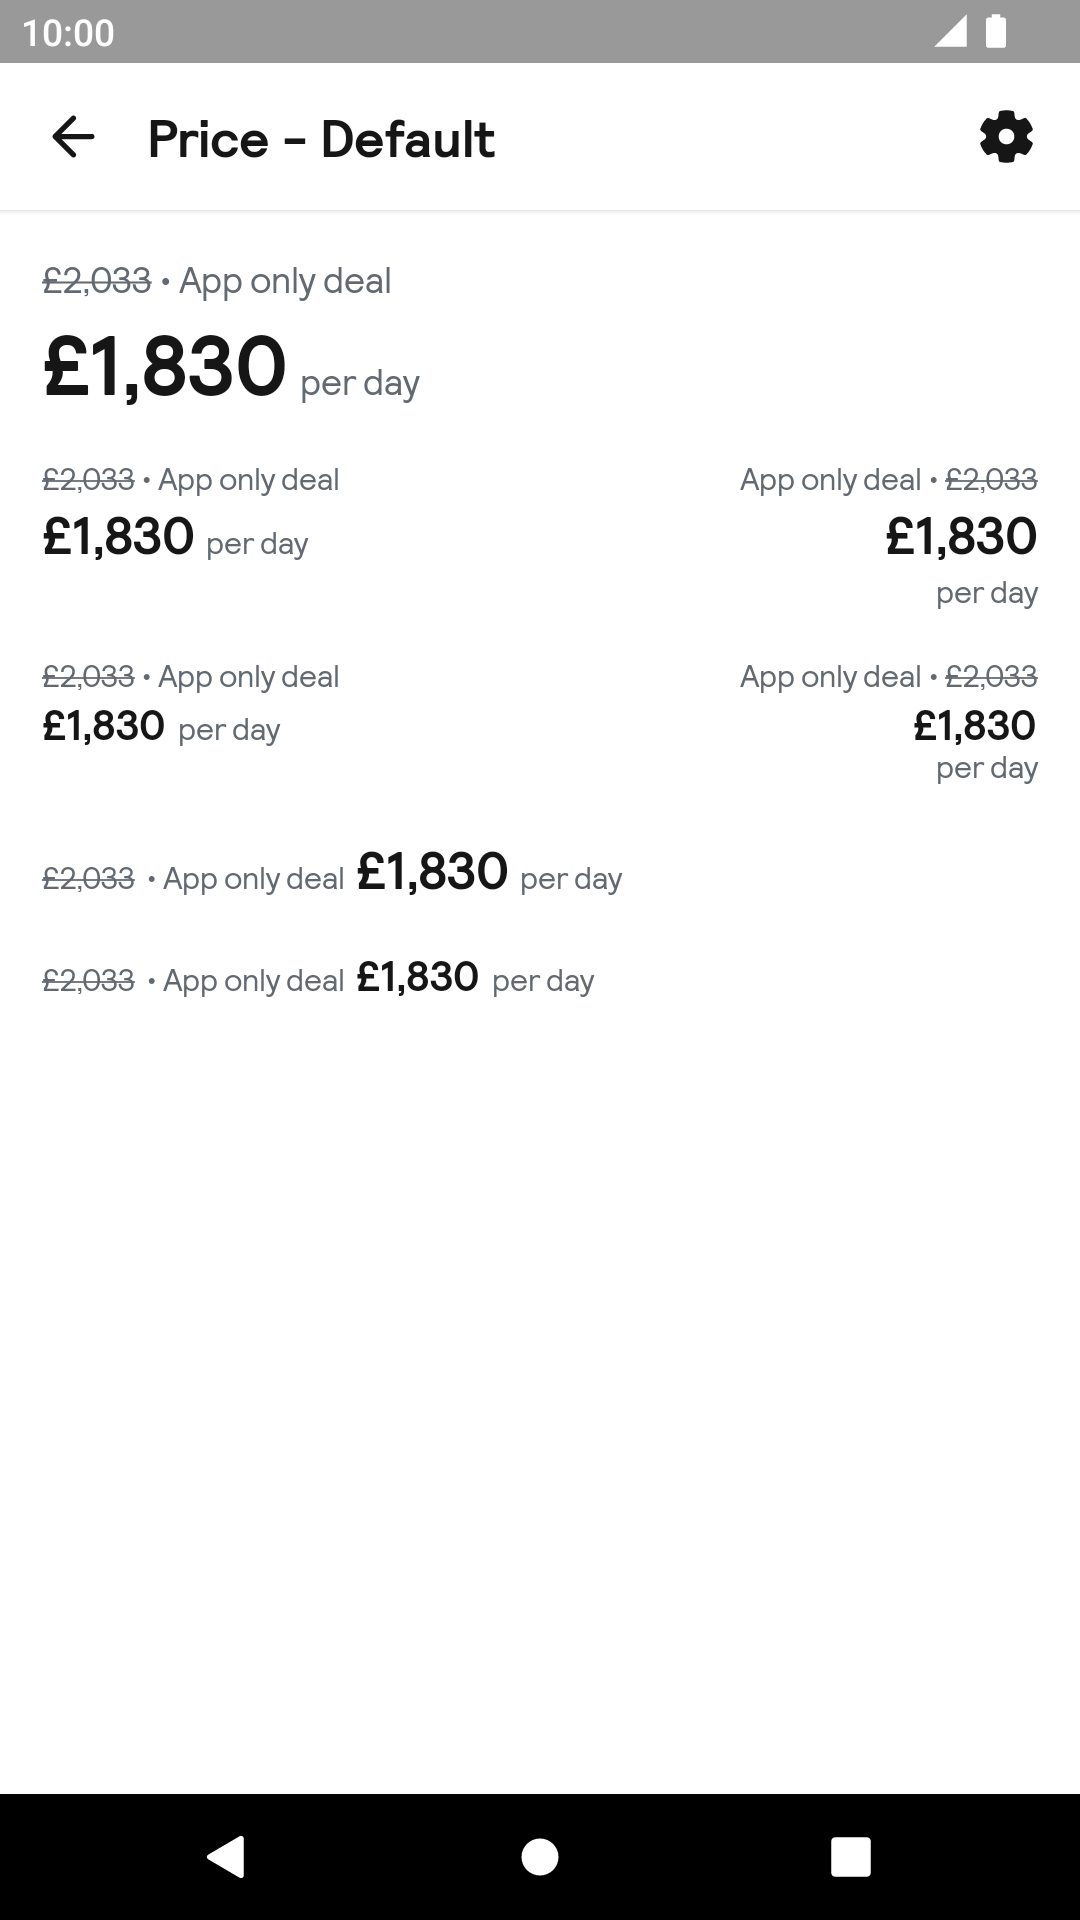
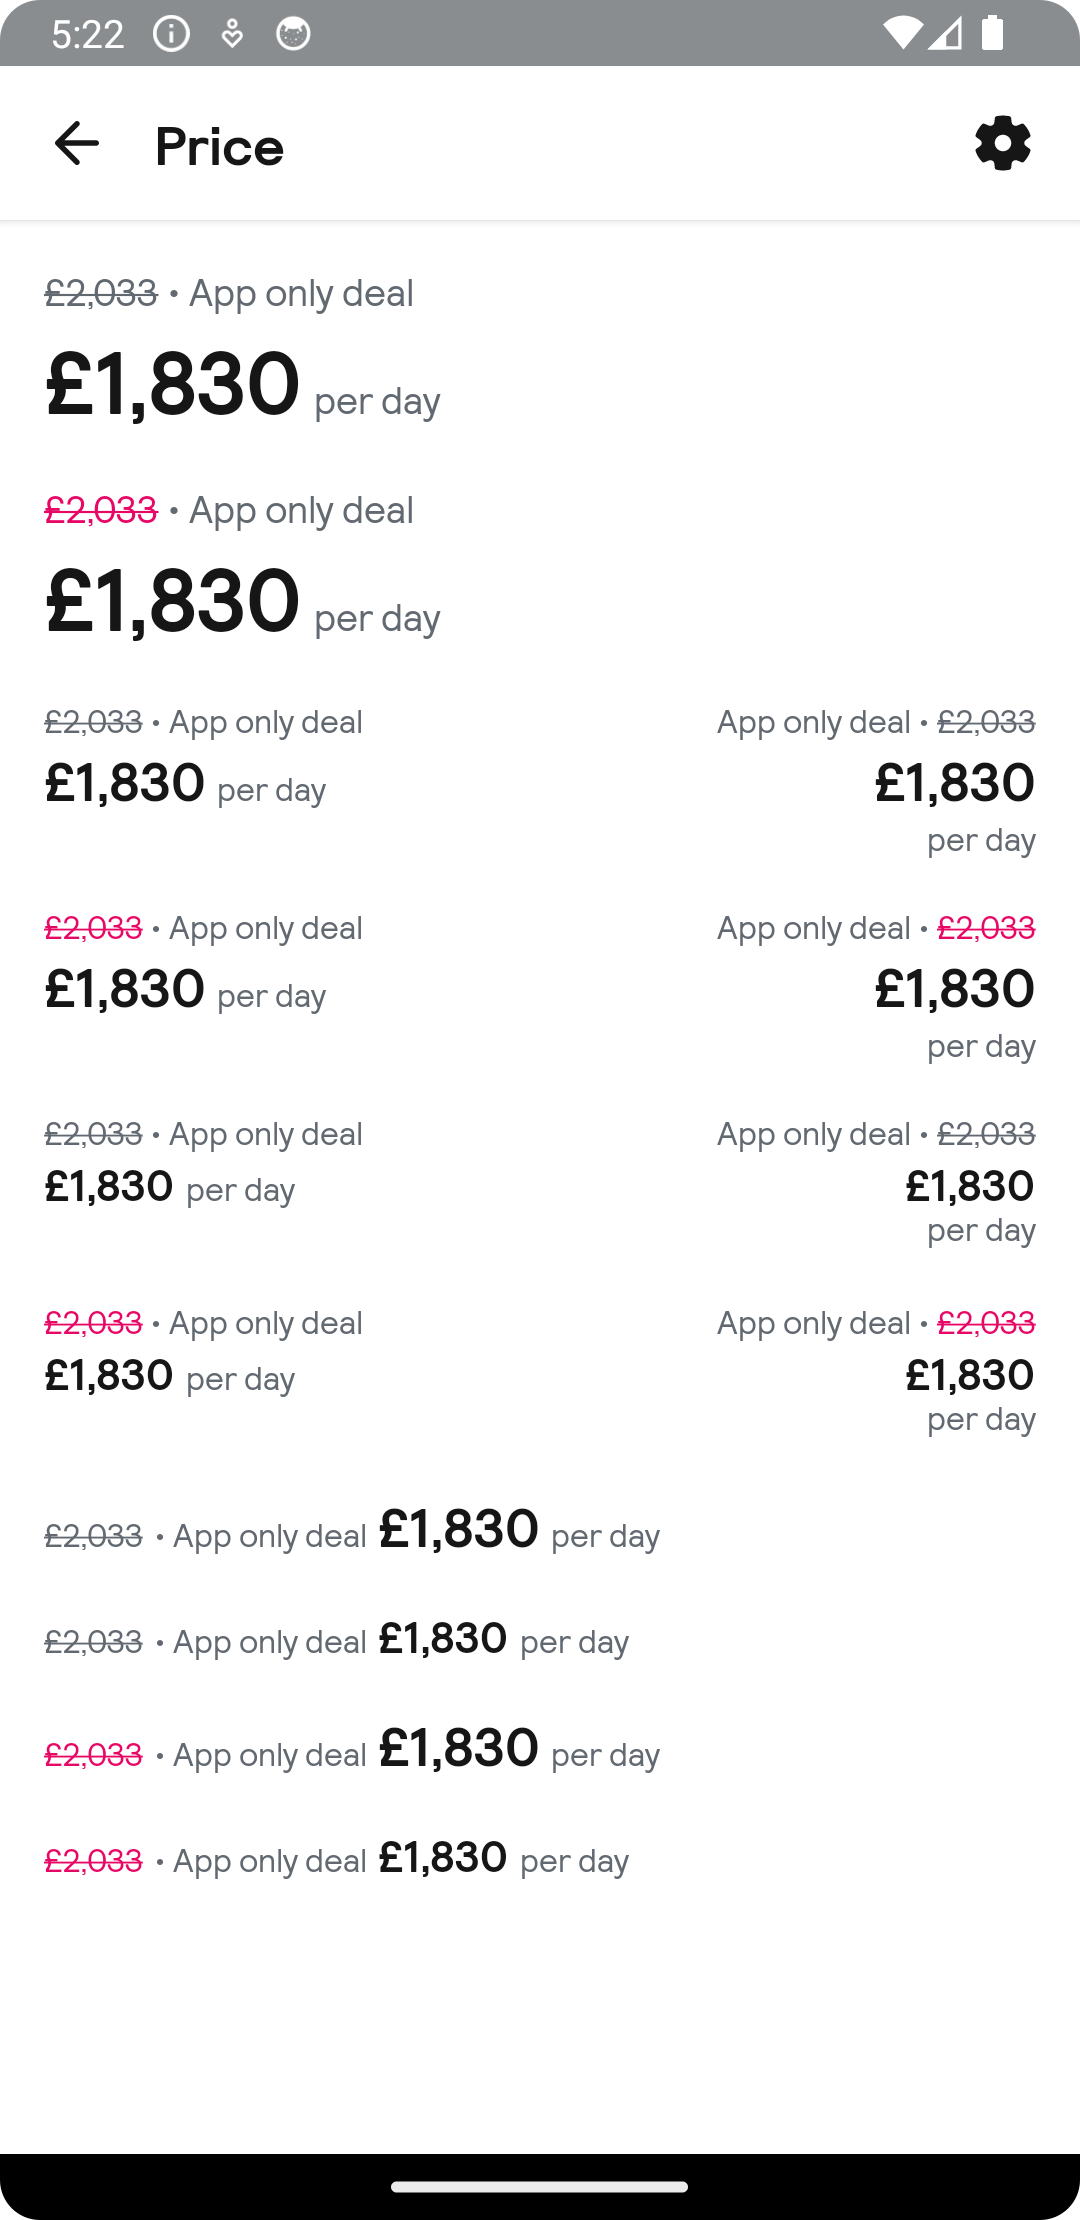
BpkPrice component support style modification

diff --git a/app/src/main/java/net/skyscanner/backpack/demo/compose/PriceStory.kt b/app/src/main/java/net/skyscanner/backpack/demo/compose/PriceStory.kt
@@ -26,10 +26,12 @@ import androidx.compose.foundation.layout.fillMaxWidth
 import androidx.compose.foundation.layout.padding
 import androidx.compose.runtime.Composable
 import androidx.compose.ui.Modifier
+import androidx.compose.ui.graphics.Color
 import androidx.compose.ui.res.stringResource
 import net.skyscanner.backpack.compose.price.BpkPrice
 import net.skyscanner.backpack.compose.price.BpkPriceAlign
 import net.skyscanner.backpack.compose.price.BpkPriceSize
+import net.skyscanner.backpack.compose.theme.BpkTheme
 import net.skyscanner.backpack.compose.tokens.BpkSpacing
 import net.skyscanner.backpack.demo.R
 import net.skyscanner.backpack.demo.components.PriceComponent
@@ -48,6 +50,12 @@ fun PriceStory(modifier: Modifier = Modifier) {
         PriceExample(
             size = BpkPriceSize.Large,
             align = BpkPriceAlign.Start,
+            previousPriceColor = null,
+        )
+        PriceExample(
+            size = BpkPriceSize.Large,
+            align = BpkPriceAlign.Start,
+            previousPriceColor = BpkTheme.colors.statusDangerSpot,
         )
         Row(
             modifier = Modifier.fillMaxWidth(),
@@ -56,10 +64,27 @@ fun PriceStory(modifier: Modifier = Modifier) {
             PriceExample(
                 size = BpkPriceSize.Small,
                 align = BpkPriceAlign.Start,
+                previousPriceColor = null,
             )
             PriceExample(
                 size = BpkPriceSize.Small,
                 align = BpkPriceAlign.End,
+                previousPriceColor = null,
+            )
+        }
+        Row(
+            modifier = Modifier.fillMaxWidth(),
+            horizontalArrangement = Arrangement.SpaceBetween,
+        ) {
+            PriceExample(
+                size = BpkPriceSize.Small,
+                align = BpkPriceAlign.Start,
+                previousPriceColor = BpkTheme.colors.statusDangerSpot,
+            )
+            PriceExample(
+                size = BpkPriceSize.Small,
+                align = BpkPriceAlign.End,
+                previousPriceColor = BpkTheme.colors.statusDangerSpot,
             )
         }
         Row(
@@ -69,25 +94,54 @@ fun PriceStory(modifier: Modifier = Modifier) {
             PriceExample(
                 size = BpkPriceSize.ExtraSmall,
                 align = BpkPriceAlign.Start,
+                previousPriceColor = null,
             )
             PriceExample(
                 size = BpkPriceSize.ExtraSmall,
                 align = BpkPriceAlign.End,
+                previousPriceColor = null,
+            )
+        }
+        Row(
+            modifier = Modifier.fillMaxWidth(),
+            horizontalArrangement = Arrangement.SpaceBetween,
+        ) {
+            PriceExample(
+                size = BpkPriceSize.ExtraSmall,
+                align = BpkPriceAlign.Start,
+                previousPriceColor = BpkTheme.colors.statusDangerSpot,
+            )
+            PriceExample(
+                size = BpkPriceSize.ExtraSmall,
+                align = BpkPriceAlign.End,
+                previousPriceColor = BpkTheme.colors.statusDangerSpot,
             )
         }
         PriceExample(
             size = BpkPriceSize.Small,
             align = BpkPriceAlign.Row,
+            previousPriceColor = null,
         )
         PriceExample(
             size = BpkPriceSize.ExtraSmall,
             align = BpkPriceAlign.Row,
+            previousPriceColor = null,
+        )
+        PriceExample(
+            size = BpkPriceSize.Small,
+            align = BpkPriceAlign.Row,
+            previousPriceColor = BpkTheme.colors.statusDangerSpot,
+        )
+        PriceExample(
+            size = BpkPriceSize.ExtraSmall,
+            align = BpkPriceAlign.Row,
+            previousPriceColor = BpkTheme.colors.statusDangerSpot,
         )
     }
 }
 
 @Composable
-private fun PriceExample(size: BpkPriceSize, align: BpkPriceAlign) {
+private fun PriceExample(size: BpkPriceSize, align: BpkPriceAlign, previousPriceColor: Color?) {
     BpkPrice(
         price = stringResource(id = R.string.price_price),
         previousPrice = stringResource(id = R.string.price_line_through_text),
@@ -95,5 +149,6 @@ private fun PriceExample(size: BpkPriceSize, align: BpkPriceAlign) {
         trailingText = stringResource(id = R.string.price_trailing_text),
         size = size,
         align = align,
+        previousPriceColor = previousPriceColor ?: BpkTheme.colors.textSecondary,
     )
 }

diff --git a/backpack-compose/src/main/kotlin/net/skyscanner/backpack/compose/price/BpkPrice.kt b/backpack-compose/src/main/kotlin/net/skyscanner/backpack/compose/price/BpkPrice.kt
@@ -20,9 +20,11 @@ package net.skyscanner.backpack.compose.price
 
 import androidx.compose.runtime.Composable
 import androidx.compose.ui.Modifier
+import androidx.compose.ui.graphics.Color
 import net.skyscanner.backpack.compose.price.internal.BpkPriceAlignEnd
 import net.skyscanner.backpack.compose.price.internal.BpkPriceAlignStart
 import net.skyscanner.backpack.compose.price.internal.BpkPriceRow
+import net.skyscanner.backpack.compose.theme.BpkTheme
 
 enum class BpkPriceAlign {
     Start,
@@ -43,6 +45,7 @@ fun BpkPrice(
     leadingText: String? = null,
     previousPrice: String? = null,
     trailingText: String? = null,
+    previousPriceColor: Color? = BpkTheme.colors.textSecondary,
     align: BpkPriceAlign = BpkPriceAlign.Start,
     size: BpkPriceSize = BpkPriceSize.Small,
 ) {
@@ -55,6 +58,7 @@ fun BpkPrice(
                 previousPrice = previousPrice,
                 trailingText = trailingText,
                 size = size,
+                previousPriceColor = previousPriceColor ?: BpkTheme.colors.textSecondary,
             )
         }
 
@@ -66,6 +70,7 @@ fun BpkPrice(
                 previousPrice = previousPrice,
                 trailingText = trailingText,
                 size = size,
+                previousPriceColor = previousPriceColor ?: BpkTheme.colors.textSecondary,
             )
         }
 
@@ -77,6 +82,7 @@ fun BpkPrice(
                 previousPrice = previousPrice,
                 trailingText = trailingText,
                 size = size,
+                previousPriceColor = previousPriceColor ?: BpkTheme.colors.textSecondary,
             )
         }
     }

diff --git a/app/src/test/java/net/skyscanner/backpack/compose/price/BpkPriceTest.kt b/app/src/test/java/net/skyscanner/backpack/compose/price/BpkPriceTest.kt
@@ -20,6 +20,7 @@ package net.skyscanner.backpack.compose.price
 
 import androidx.compose.ui.res.stringResource
 import net.skyscanner.backpack.compose.BpkSnapshotTest
+import net.skyscanner.backpack.compose.theme.BpkTheme
 import net.skyscanner.backpack.demo.R
 import org.junit.Test
 import org.junit.runner.RunWith
@@ -77,6 +78,21 @@ class BpkPriceTest(flavor: Flavor) : BpkSnapshotTest(listOf(flavor.size, flavor.
                 leadingText = stringResource(id = R.string.price_leading_text),
                 size = size,
                 align = align,
+            )
+        }
+    }
+
+    @Test
+    fun pricePreviousPriceColor() {
+        snap {
+            BpkPrice(
+                price = stringResource(id = R.string.price_price),
+                trailingText = stringResource(id = R.string.price_trailing_text),
+                previousPrice = stringResource(id = R.string.price_line_through_text),
+                leadingText = stringResource(id = R.string.price_leading_text),
+                size = size,
+                align = align,
+                previousPriceColor = BpkTheme.colors.statusDangerSpot,
             )
         }
     }

diff --git a/backpack-compose/src/main/kotlin/net/skyscanner/backpack/compose/price/internal/BpkPriceAlignStart.kt b/backpack-compose/src/main/kotlin/net/skyscanner/backpack/compose/price/internal/BpkPriceAlignStart.kt
@@ -25,6 +25,7 @@ import androidx.compose.foundation.layout.padding
 import androidx.compose.runtime.Composable
 import androidx.compose.ui.Alignment
 import androidx.compose.ui.Modifier
+import androidx.compose.ui.graphics.Color
 import androidx.compose.ui.text.style.TextDecoration
 import net.skyscanner.backpack.compose.price.BpkPriceSize
 import net.skyscanner.backpack.compose.text.BpkText
@@ -38,6 +39,7 @@ internal fun BpkPriceAlignStart(
     leadingText: String? = null,
     previousPrice: String? = null,
     trailingText: String? = null,
+    previousPriceColor: Color = BpkTheme.colors.textSecondary,
     size: BpkPriceSize = BpkPriceSize.Small,
 ) {
     Column(modifier = modifier) {
@@ -45,7 +47,7 @@ internal fun BpkPriceAlignStart(
             previousPrice?.let {
                 BpkText(
                     text = it,
-                    color = BpkTheme.colors.textSecondary,
+                    color = previousPriceColor,
                     style = size.secondaryTextStyle(),
                     textDecoration = TextDecoration.LineThrough,
                 )

diff --git a/backpack-compose/src/main/kotlin/net/skyscanner/backpack/compose/price/internal/BpkPriceRow.kt b/backpack-compose/src/main/kotlin/net/skyscanner/backpack/compose/price/internal/BpkPriceRow.kt
@@ -22,6 +22,7 @@ import androidx.compose.foundation.layout.Arrangement
 import androidx.compose.foundation.layout.Row
 import androidx.compose.runtime.Composable
 import androidx.compose.ui.Modifier
+import androidx.compose.ui.graphics.Color
 import androidx.compose.ui.text.style.TextDecoration
 import net.skyscanner.backpack.compose.price.BpkPriceSize
 import net.skyscanner.backpack.compose.text.BpkText
@@ -35,6 +36,7 @@ internal fun BpkPriceRow(
     leadingText: String? = null,
     previousPrice: String? = null,
     trailingText: String? = null,
+    previousPriceColor: Color = BpkTheme.colors.textSecondary,
     size: BpkPriceSize = BpkPriceSize.Small,
 ) {
     Row(
@@ -45,7 +47,7 @@ internal fun BpkPriceRow(
             BpkText(
                 modifier = Modifier.alignByBaseline(),
                 text = it,
-                color = BpkTheme.colors.textSecondary,
+                color = previousPriceColor,
                 style = size.secondaryTextStyle(),
                 textDecoration = TextDecoration.LineThrough,
             )

diff --git a/backpack-compose/src/main/kotlin/net/skyscanner/backpack/compose/price/internal/BpkPriceAlignEnd.kt b/backpack-compose/src/main/kotlin/net/skyscanner/backpack/compose/price/internal/BpkPriceAlignEnd.kt
@@ -24,6 +24,7 @@ import androidx.compose.foundation.layout.offset
 import androidx.compose.runtime.Composable
 import androidx.compose.ui.Alignment
 import androidx.compose.ui.Modifier
+import androidx.compose.ui.graphics.Color
 import androidx.compose.ui.text.style.TextDecoration
 import androidx.compose.ui.unit.dp
 import net.skyscanner.backpack.compose.price.BpkPriceSize
@@ -38,6 +39,7 @@ internal fun BpkPriceAlignEnd(
     leadingText: String? = null,
     previousPrice: String? = null,
     trailingText: String? = null,
+    previousPriceColor: Color = BpkTheme.colors.textSecondary,
     size: BpkPriceSize = BpkPriceSize.Small,
 ) {
     Column(
@@ -58,7 +60,7 @@ internal fun BpkPriceAlignEnd(
             previousPrice?.let {
                 BpkText(
                     text = it,
-                    color = BpkTheme.colors.textSecondary,
+                    color = previousPriceColor,
                     style = size.secondaryTextStyle(),
                     textDecoration = TextDecoration.LineThrough,
                 )

diff --git a/docs/compose/Price/README.md b/docs/compose/Price/README.md
@@ -30,5 +30,6 @@ BpkPrice(
   trailingText = "per day",
   size = BpkPriceSize.Large,
   align = BpkPriceAlign.End,
+  previousPriceColor = BpkTheme.colors.statusDangerSpot,
 )
 ```
